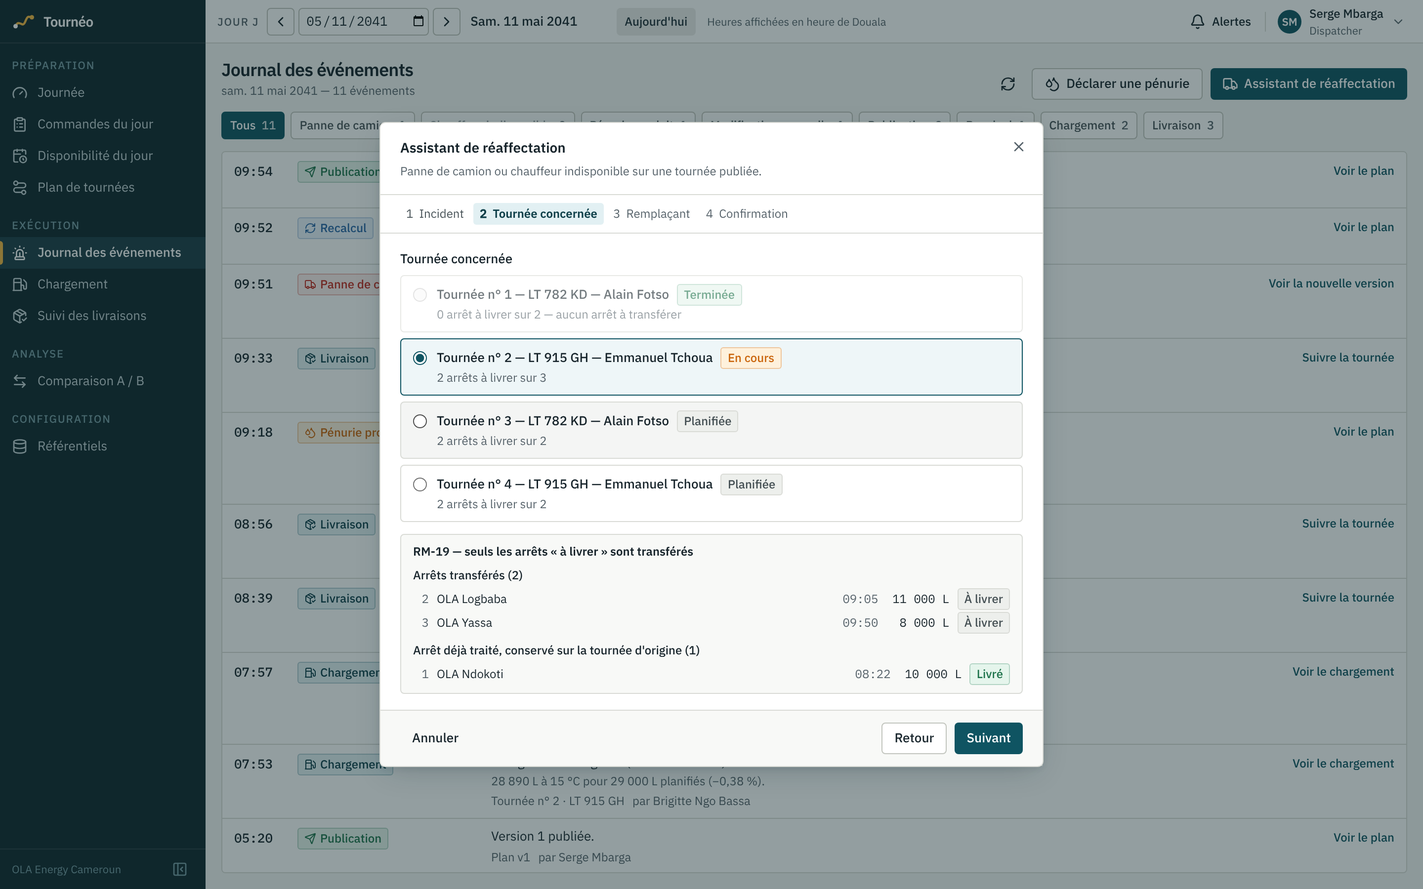
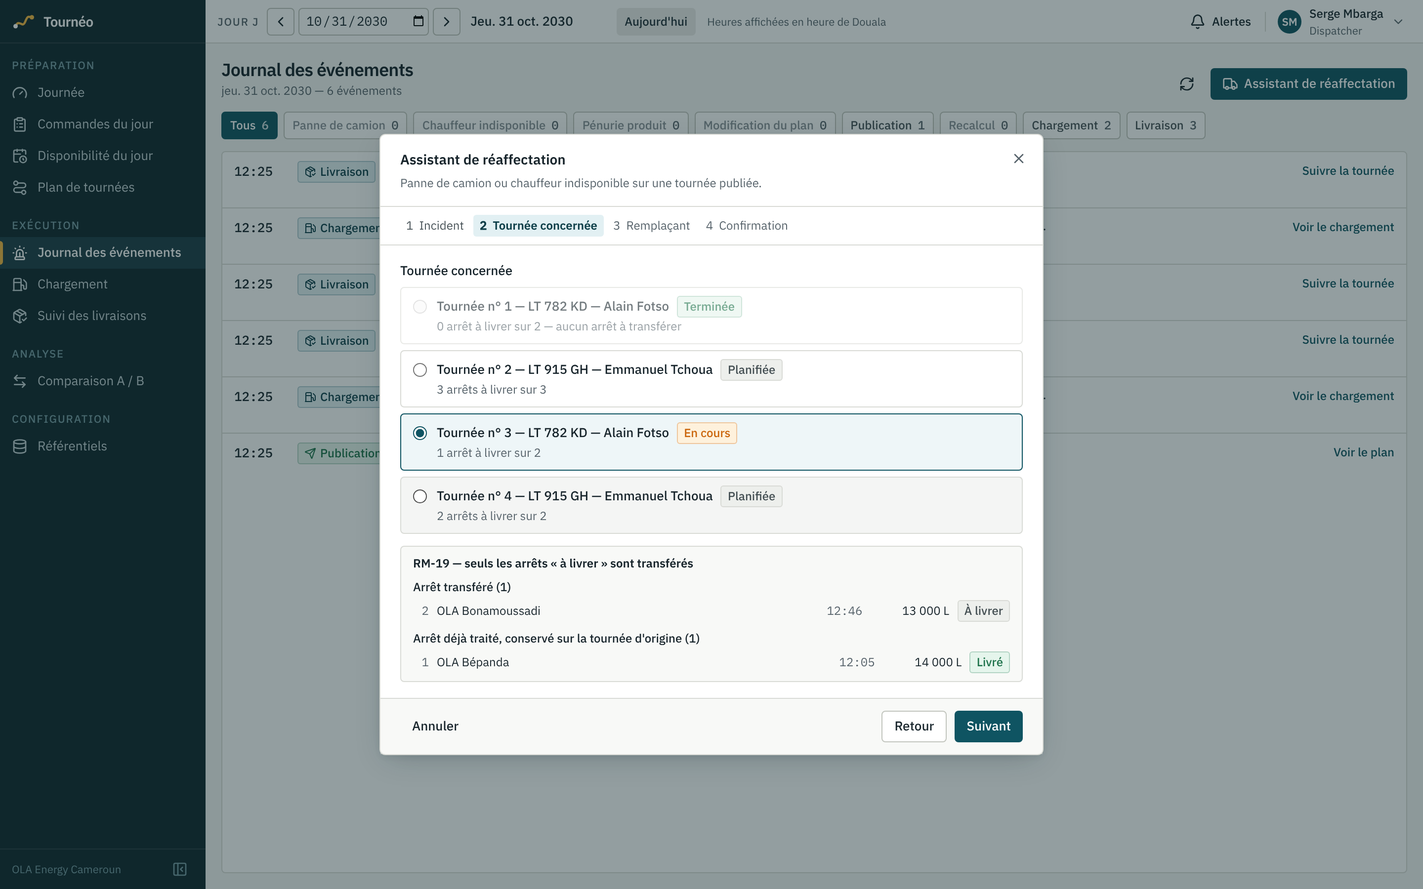
Journal des événements contre la vraie API : traitement des pénuries, parcours Playwright, captures
Parcours e2e (vraie API) : panne de camion par l'assistant → nouvelle version publiée, tournée de
remplacement au chargement ; pénurie déclarée puis traitée par le dispatcher. Captures du journal
refaites sur données réelles ; questions du lot mises à jour.

Claude-Session: https://claude.ai/code/session_01WbKnrdsNcZHw9DjmF11Z3t

diff --git a/frontend/e2e/l13-evenements.e2e.ts b/frontend/e2e/l13-evenements.e2e.ts
@@ -1,0 +1,275 @@
+/**
+ * Lot L13, écran 6 — bout en bout contre la VRAIE API (aucune doublure, routes du lot L10) :
+ *   1. `dispatcher` : panne de camion traitée par l'assistant sur une tournée en cours du plan publié
+ *      (RM-19) → nouvelle version publiée, événement au journal, tournée de remplacement dans l'écran
+ *      Chargement ;
+ *   2. pénurie produit déclarée par l'écran en `admin` (le rôle `supply`, seul autre rôle autorisé par
+ *      l'API, ne voit pas encore l'écran Journal dans `lib/auth/roles.ts`), puis traitée par l'écran en
+ *      `dispatcher` → alerte résolue, journal à jour.
+ * Prérequis : `./scripts/dev_setup.sh`, l'API sur :8000 et **un worker Celery** (calcul du plan).
+ * Connexions limitées à 10/min par adresse : une connexion par rôle, contextes réutilisés.
+ *
+ * Captures d'écran (`docs/captures/l13-0[89]-*.png`, `l13-1[0-3]-*.png`) :
+ * `L13_CAPTURES=1 pnpm e2e l13-evenements`.
+ */
+import { expect, test, type Browser, type BrowserContext, type Page } from "@playwright/test";
+
+import { ACCOUNTS, call, seedPublishedPlan, type Seed, type SeedTrip } from "./l13-seed";
+
+const CAPTURES = !!process.env.L13_CAPTURES;
+const OUT = "docs/captures";
+const ADMIN = { email: "admin@honowa.tech", password: "admin-dev-only" };
+
+let seed: Seed;
+let day: string;
+/** Tournée en panne : la seconde du camion, en cours, premier arrêt livré. */
+let broken: SeedTrip;
+/** Première tournée du même camion, terminée avant la panne. */
+let earlier: SeedTrip;
+let dispatcher: { context: BrowserContext; page: Page };
+
+test.describe.configure({ mode: "serial" });
+
+const utcAt = (utc: string, plusMinutes: number) =>
+  new Date(Date.parse(utc) + plusMinutes * 60_000).toISOString();
+/** Heure locale de Douala (UTC+1), sans séparateur (saisie rapide « 1015 »). */
+function localDigits(utc: string, plusMinutes = 0): string {
+  const date = new Date(Date.parse(utc) + (60 + plusMinutes) * 60_000);
+  return `${String(date.getUTCHours()).padStart(2, "0")}${String(date.getUTCMinutes()).padStart(2, "0")}`;
+}
+const gasoil = (trip: SeedTrip) =>
+  trip.loads.filter((load) => load.product_code === "GASOIL").reduce((sum, load) => sum + load.planned_l, 0);
+
+/** Fait avancer une tournée par l'API : chargement, départ, puis livraison des `delivered` premiers arrêts. */
+async function run(trip: SeedTrip, delivered: number, complete: boolean): Promise<void> {
+  const token = seed.adminToken;
+  const status = (body: Record<string, unknown>) =>
+    call(`/trips/${trip.id}/status`, { method: "PUT", token, body });
+  await status({ status: "at_depot" });
+  await call(`/trips/${trip.id}/loading`, {
+    method: "POST",
+    token,
+    body: {
+      arrived_at: utcAt(trip.planned_depart_at, -125),
+      started_at: utcAt(trip.planned_depart_at, -100),
+      finished_at: utcAt(trip.planned_depart_at, -20),
+      depot_ticket_no: `BL-22${30 + trip.seq}`,
+      lines: trip.loads.map((load) => ({
+        compartment_id: load.compartment_id,
+        product_id: load.product_id,
+        observed_l: load.planned_l,
+        observed_temp_c: 19,
+      })),
+    },
+  });
+  await status({ status: "loaded" });
+  await status({ status: "in_progress", actual_depart_at: utcAt(trip.planned_depart_at, 3) });
+  for (const stop of trip.stops.slice(0, delivered)) {
+    await call(`/stops/${stop.id}/delivery`, {
+      method: "PUT",
+      token,
+      body: {
+        actual_arrival_at: utcAt(stop.planned_arrival_at, 6),
+        actual_departure_at: utcAt(stop.planned_arrival_at, 40),
+        deliveries: stop.deliveries.map((line) => ({ order_id: line.order_id, actual_l: line.planned_l })),
+      },
+    });
+  }
+  if (complete) {
+    const last = trip.stops[trip.stops.length - 1];
+    await status({ status: "completed", actual_return_at: utcAt(last.planned_arrival_at, 70) });
+  }
+}
+
+test.beforeAll(async () => {
+  test.setTimeout(300_000);
+  seed = await seedPublishedPlan();
+  day = seed.day;
+  // Un camion qui fait deux tournées : la première est terminée, la seconde tombe en panne en route.
+  const byTruck = new Map<string, SeedTrip[]>();
+  for (const trip of seed.trips) byTruck.set(trip.truck_id, [...(byTruck.get(trip.truck_id) ?? []), trip]);
+  const pair = [...byTruck.values()].find((trips) => trips.length === 2 && trips[1].stops.length >= 2);
+  expect(pair, "le plan d'essai contient un camion à deux tournées").toBeTruthy();
+  [earlier, broken] = pair as [SeedTrip, SeedTrip];
+  await run(earlier, earlier.stops.length, true);
+  await run(broken, 1, false);
+});
+
+test.afterAll(async () => {
+  await dispatcher?.context.close();
+});
+
+async function open(browser: Browser, account: { email: string; password: string }, path: string) {
+  const context = await browser.newContext({
+    baseURL: "http://localhost:5173",
+    locale: "fr-FR",
+    timezoneId: "Africa/Douala",
+    viewport: CAPTURES ? { width: 1440, height: 900 } : { width: 1280, height: 800 },
+    deviceScaleFactor: CAPTURES ? 2 : 1,
+  });
+  const page = await context.newPage();
+  await page.goto("/connexion");
+  await page.getByLabel("Adresse e-mail").fill(account.email);
+  await page.getByLabel("Mot de passe", { exact: true }).fill(account.password);
+  await page.getByRole("button", { name: "Se connecter" }).click();
+  await expect(page.getByTestId("user-menu")).toBeVisible();
+  await page.goto(path);
+  return { context, page };
+}
+
+async function shot(page: Page, name: string) {
+  if (!CAPTURES) return;
+  await page.waitForTimeout(400);
+  const hide = await page.addStyleTag({
+    content: "[data-sonner-toaster] { visibility: hidden !important; }",
+  });
+  await page.screenshot({ path: `${OUT}/${name}.png`, animations: "disabled" });
+  await hide.evaluate((node) => (node as Element).remove());
+}
+
+test("dispatcher : panne de camion → assistant → nouvelle version publiée, journal, chargement", async ({
+  browser,
+}) => {
+  dispatcher = await open(browser, ACCOUNTS.dispatcher, `/journal?day=${day}`);
+  const { page } = dispatcher;
+  await expect(page.getByTestId("mocks-badge")).toHaveCount(0);
+  await expect(page.getByTestId("event-row").first()).toBeVisible();
+  // Le dispatcher réaffecte et traite ; la déclaration d'une pénurie revient à Supply.
+  await expect(page.getByRole("button", { name: "Déclarer une pénurie" })).toHaveCount(0);
+
+  await page.getByRole("button", { name: "Assistant de réaffectation" }).click();
+  const dialog = page.getByRole("dialog", { name: "Assistant de réaffectation" });
+  const next = dialog.getByRole("button", { name: "Suivant" });
+
+  // Étape 1 : panne de camion, constatée peu après la première livraison.
+  await expect(dialog.getByRole("radio", { name: /Camion en panne/ })).toBeChecked();
+  await dialog
+    .getByRole("textbox", { name: /Heure de l'incident/ })
+    .fill(localDigits(broken.stops[0].planned_arrival_at, 50));
+  await next.click();
+
+  // Étape 2 : la tournée en cours ; RM-19 — l'arrêt livré reste sur la tournée d'origine.
+  await dialog.getByRole("radio", { name: new RegExp(`Tournée n° ${broken.seq} — `) }).click();
+  const rm19 = dialog.getByRole("region", { name: /RM-19/ });
+  await expect(
+    rm19.getByText(new RegExp(`Arrêts? transférés? \\(${broken.stops.length - 1}\\)`)),
+  ).toBeVisible();
+  await expect(rm19.getByText(/conservé sur la tournée d'origine \(1\)/)).toBeVisible();
+  await expect(rm19.getByText(broken.stops[0].station_name)).toBeVisible();
+  await shot(page, "l13-09-journal-assistant-tournee-rm19");
+  await next.click();
+
+  // Étape 3 : le camion en panne n'est pas proposé ; on prend le premier camion éligible.
+  const trucks = dialog.getByRole("group", { name: "Camion de remplacement" }).getByRole("radio");
+  await expect(trucks.first()).toBeVisible();
+  await expect(dialog.getByRole("radio", { name: new RegExp(`^${broken.truck_plate}`) })).toHaveCount(0);
+  const eligible = dialog
+    .getByRole("group", { name: "Camion de remplacement" })
+    .locator("input[type=radio]:enabled");
+  await expect(eligible.first()).toBeVisible();
+  await eligible.first().check();
+  const plate = (
+    (await eligible.first().locator("xpath=ancestor::label").innerText()).split("\n")[0] ?? ""
+  ).trim();
+  await expect(dialog.getByRole("group", { name: /Chauffeur de la tournée de remplacement/ })).toBeVisible();
+  await shot(page, "l13-10-journal-assistant-remplacant");
+  await expect(next).toBeEnabled();
+  await next.click();
+
+  // Étape 4 : récapitulatif, motif, confirmation.
+  await expect(dialog.getByRole("region", { name: "Récapitulatif" })).toContainText(plate);
+  await dialog.getByRole("textbox", { name: /Motif/ }).fill("Fuite hydraulique sur l'axe Ndokoti");
+  await dialog.getByRole("button", { name: "Confirmer la réaffectation" }).click();
+
+  await expect(dialog.getByText("Réaffectation enregistrée")).toBeVisible();
+  await expect(dialog.getByText(new RegExp(`Panne du camion ${broken.truck_plate}`))).toBeVisible();
+  await expect(dialog.getByTestId("plan-result")).toContainText("Version 2 du plan publiée.");
+  await expect(
+    dialog.getByText(/arrêts? transférés?, 1 conservé sur la tournée d'origine \(RM-19\)/),
+  ).toBeVisible();
+  await expect(dialog.getByRole("link", { name: "Ouvrir le plan (v2)" })).toBeVisible();
+  await shot(page, "l13-12-journal-reaffectation-resultat");
+
+  // La tournée de remplacement repart du dépôt : elle est dans l'écran Chargement, sur le nouveau camion.
+  await dialog.getByRole("link", { name: "Ouvrir son chargement" }).click();
+  await expect(page).toHaveURL(/\/chargement\?trip=/);
+  await expect(page.getByTestId("trip-panel")).toContainText(plate);
+
+  // Le journal porte l'événement, avec son motif.
+  await page.goto(`/journal?day=${day}`);
+  const row = page.getByTestId("event-row").filter({ hasText: `Panne du camion ${broken.truck_plate}` });
+  await expect(row).toContainText("Motif : Fuite hydraulique sur l'axe Ndokoti");
+  await expect(row).toContainText("Plan v2");
+  await expect(row.getByRole("link", { name: "Voir le plan" })).toBeVisible();
+});
+
+test("pénurie produit : déclarée par l'écran (admin), traitée par le dispatcher → résolue", async ({
+  browser,
+}) => {
+  // Stock total du jour = déjà chargé + 4 000 L : les tournées de gasoil non chargées ne sont plus couvertes.
+  const loaded = gasoil(earlier) + gasoil(broken);
+  const stock = loaded + 4000;
+
+  const admin = await open(browser, ADMIN, `/journal?day=${day}`);
+  await admin.page.getByRole("button", { name: "Déclarer une pénurie" }).click();
+  const form = admin.page.getByRole("dialog", { name: "Déclarer une pénurie produit" });
+  await form.getByRole("combobox", { name: "Dépôt" }).selectOption({ label: "SCDP-DLA — SCDP Douala" });
+  await form.getByRole("combobox", { name: "Produit" }).selectOption({ label: "Gasoil" });
+  const field = form.getByRole("textbox", { name: "Nouveau stock disponible" });
+
+  // Refus expliqué : le stock total ne peut pas être inférieur à ce qui est déjà chargé.
+  await field.fill(String(loaded - 1000));
+  await form.getByRole("button", { name: "Déclarer" }).click();
+  await expect(form.getByRole("alert")).toContainText("Déclaration refusée");
+  await expect(form.getByRole("alert")).toContainText("Le stock saisi est le stock total du jour");
+
+  await field.fill(String(stock));
+  await form.getByRole("button", { name: "Déclarer" }).click();
+  const overview = form.getByTestId("shortage-overview");
+  await expect(overview).toContainText("GASOIL au dépôt SCDP-DLA");
+  await expect(overview).toContainText("À traiter");
+  await form.getByRole("button", { name: "Fermer" }).last().click();
+  await expect(
+    admin.page.getByTestId("event-row").filter({ hasText: "Stock de GASOIL au dépôt SCDP-DLA" }),
+  ).toContainText("À traiter");
+  await admin.context.close();
+
+  // Le dispatcher traite l'alerte depuis le journal.
+  const { page } = dispatcher;
+  await page.goto(`/journal?day=${day}`);
+  const alertRow = page.getByTestId("event-row").filter({ hasText: "Stock de GASOIL au dépôt SCDP-DLA" });
+  await expect(alertRow).toContainText("À traiter");
+  await shot(page, "l13-08-journal-evenements");
+  await alertRow.getByRole("button", { name: "Traiter la pénurie" }).click();
+  const impact = page.getByRole("dialog", { name: "Pénurie produit — tournées impactées" });
+  const trips = impact.getByTestId("impacted-trip");
+  await expect(trips.first()).toBeVisible();
+  const count = await trips.count();
+  expect(count).toBeGreaterThanOrEqual(1);
+
+  // Les options viennent du serveur ; ici les commandes de gasoil de chaque tournée impactée sont reportées.
+  for (let index = 0; index < count; index += 1) {
+    const decision = trips.nth(index).getByRole("combobox", { name: /Décision pour la tournée/ });
+    await expect(decision.getByRole("option", { name: "Changer de dépôt" })).toBeAttached();
+    await decision.selectOption("postpone");
+  }
+  await shot(page, "l13-11-journal-penurie-tournees-impactees");
+  await impact.getByRole("button", { name: "Appliquer les décisions" }).click();
+
+  await expect(impact.getByText("Décisions appliquées")).toBeVisible();
+  await expect(impact.getByTestId("shortage-overview")).toContainText("Résolue");
+  await expect(impact.getByText(/La pénurie est résolue/)).toBeVisible();
+  await expect(impact.getByTestId("plan-result").first()).toContainText(/Version \d+ du plan/);
+  await shot(page, "l13-13-journal-penurie-traitee");
+  await impact.getByRole("button", { name: "Fermer" }).last().click();
+
+  // Journal à jour : alerte résolue, décision journalisée.
+  await expect(alertRow).toContainText("Résolue");
+  await expect(alertRow.getByRole("button", { name: "Traiter la pénurie" })).toHaveCount(0);
+  await expect(
+    page
+      .getByTestId("event-row")
+      .filter({ hasText: /^.*Pénurie de GASOIL au dépôt SCDP-DLA/ })
+      .first(),
+  ).toBeVisible();
+});

diff --git a/frontend/src/features/events/ReassignDialog.tsx b/frontend/src/features/events/ReassignDialog.tsx
@@ -22,7 +22,7 @@ import {
   DialogHeader,
   DialogTitle,
 } from "@/components/ui/dialog";
-import { TimeInput } from "@/components/forms";
+import { normalizeTime, TimeInput } from "@/components/forms";
 import { Input } from "@/components/ui/input";
 import { Label } from "@/components/ui/label";
 import { fr } from "@/i18n/fr";
@@ -98,7 +98,7 @@ function StopList({ title, stops }: { title: string; stops: PlanStopOut[] }) {
             <span className="num w-4 text-right text-muted-foreground">{stop.seq}</span>
             <span className="min-w-0 flex-1 truncate">{stop.station_name ?? stop.station_code ?? EMPTY}</span>
             <span className="num text-muted-foreground">{formatLocalTime(stop.planned_arrival_at)}</span>
-            <span className="num w-16 text-right">{formatLiters(stop.planned_l)}</span>
+            <span className="w-20 text-right tabular-nums">{formatLiters(stop.planned_l)}</span>
             <StatusBadge kind="stop" value={stop.status} />
           </li>
         ))}
@@ -206,10 +206,11 @@ export function ReassignDialog({
   const [reason, setReason] = useState("");
   /** Heure locale de l'incident (`HH:mm`) ; vide : maintenant. */
   const [time, setTime] = useState("");
-  const timeValid = time === "" || /^([01]\d|2[0-3]):[0-5]\d$/.test(time);
+  const localTime = normalizeTime(time);
+  const timeValid = localTime === "" || /^([01]\d|2[0-3]):[0-5]\d$/.test(localTime);
   const occurredAt =
-    time !== "" && timeValid
-      ? new Date(Date.parse(dayBoundsUtc(day).from) + hmToSeconds(time) * 1000).toISOString()
+    localTime !== "" && timeValid
+      ? new Date(Date.parse(dayBoundsUtc(day).from) + hmToSeconds(localTime) * 1000).toISOString()
       : null;
   const [done, setDone] = useState<EventResultOut | null>(null);
 

diff --git a/frontend/src/features/events/ImpactDialog.tsx b/frontend/src/features/events/ImpactDialog.tsx
@@ -48,7 +48,7 @@ function Figure({ label, value, strong }: { label: string; value: number; strong
   return (
     <div className="flex flex-col">
       <dt className="text-[0.6875rem] uppercase tracking-wide text-muted-foreground">{label}</dt>
-      <dd className={strong ? "num text-sm font-semibold text-warning" : "num text-sm"}>
+      <dd className={strong ? "text-sm font-semibold tabular-nums text-warning" : "text-sm tabular-nums"}>
         {formatLiters(value)}
       </dd>
     </div>
@@ -103,10 +103,9 @@ function TripCard({
         <StatusBadge kind="trip" value={trip.status} />
         {trip.driver_name && <span className="text-xs text-muted-foreground">{trip.driver_name}</span>}
         <span className="ml-auto text-xs">
-          {t.planned} <span className="num">{formatLiters(trip.planned_l)}</span> · {t.covered}{" "}
-          <span className="num">{formatLiters(trip.covered_l)}</span> ·{" "}
+          {t.planned} {formatLiters(trip.planned_l)} · {t.covered} {formatLiters(trip.covered_l)} ·{" "}
           <span className="font-medium text-warning">
-            {t.shortfall} <span className="num">{formatLiters(trip.shortfall_l)}</span>
+            {t.shortfall} {formatLiters(trip.shortfall_l)}
           </span>
         </span>
       </div>

diff --git a/frontend/src/features/events/events.test.tsx b/frontend/src/features/events/events.test.tsx
@@ -252,10 +252,12 @@ describe("Journal des événements — assistant de réaffectation", () => {
     await waitFor(() => expect(screen.getAllByTestId("event-row")).toHaveLength(9));
   });
 
-  it("chauffeur obligatoire quand `driver_required` ; chauffeur et motif transmis", async () => {
+  it("chauffeur obligatoire quand `driver_required` ; chauffeur, heure et motif transmis", async () => {
     loginAs("dispatcher");
     const { user } = renderApp(ROUTE);
     const { dialog, next } = await openAssistant(user);
+    // Heure de l'incident : saisie tolérante (« 910 » → 09:10, heure de Douala).
+    await user.type(within(dialog).getByRole("textbox", { name: /Heure de l'incident/ }), "910");
     await next();
     await user.click(await within(dialog).findByRole("radio", { name: /Tournée n° 2/ }));
     await next();
@@ -278,6 +280,7 @@ describe("Journal des événements — assistant de réaffectation", () => {
         trip_id: SAMPLE_TRIP_IDS[1],
         replacement_truck_id: SAMPLE_TRUCK_IDS.driverRequired,
         replacement_driver_id: SAMPLE_DRIVER_IDS.jean,
+        occurred_at: "2027-01-12T08:10:00.000Z",
         reason: "Crevaison à Ndokoti",
       },
     });

diff --git a/docs/questions/l13-ecrans.md b/docs/questions/l13-ecrans.md
@@ -24,21 +24,20 @@ Zones d'ombre rencontrées, valeur par défaut adoptée en attendant la réponse
 | L13-11 | Kilomètres réels à la clôture. | Saisis en kilomètres (une décimale possible), envoyés en mètres ; facultatifs comme côté API. Confirmation avant clôture car elle n'est pas réversible (L6-12). |
 | L13-12 | Source des données : aucune route ne liste les arrêts d'une tournée hors du plan complet. | `GET /loadings?day=` pour les tournées, `GET /plans/{plan_id}` (un appel par plan publié du jour) pour les arrêts. |
 
-## Écran 6 — Journal des événements (routes du lot L10 non livrées à la date du rendu)
+## Écran 6 — Journal des événements (aligné sur les routes réelles du lot L10)
 
-Toutes les formes supposées sont isolées dans `frontend/src/features/events/api.ts` (fonctions `normalize*` tolérantes).
+Les types viennent de `api.gen.ts` (`EventOut`, `EventResultOut`, `ReplacementOptionsOut`, `ShortageOut`, `ResolveOut`) ;
+tous les appels sont dans `frontend/src/features/events/api.ts`.
 
 | # | Question | Choix fait |
 |---|---|---|
-| L13-13 | Forme de `GET /events?day=`. | `Page` (ou liste) d'événements : colonnes du modèle (`id, day, plan_id, trip_id, type, payload, occurred_at, actor_id`) plus libellés supposés `actor_name`, `trip_seq`, `truck_plate` (acceptés aussi dans `payload`). Sans eux : « Système », « Tournée ». |
-| L13-14 | Route des options de remplacement (non décrite par la spec §9). | Supposée `GET /events/replacement-options?trip_id=&kind=truck\|driver` → `{trucks: [{id, plate, size, total_capacity_l, carrier_name, suitable, reason}], drivers: [{id, full_name, phone, suitable, reason}]}`. |
-| L13-15 | Réponse des `POST /events/truck-breakdown` et `/driver-unavailable`. | Supposée `{event, plan: {id, version}, transferred_stop_count}` ; un `PlanOut` direct ou `{plan_id, plan_version}` sont aussi compris. L'écran propose alors d'ouvrir la nouvelle version du plan. |
-| L13-16 | Réponse de `POST /events/product-shortage`. | Supposée `{event, available_l, impacted_trips: [{trip_id, plan_id, trip_seq, truck_plate, driver_name, planned_l, shortfall_l}]}`. |
-| L13-17 | F6.3 « le dispatcher choisit : réduire, reporter, changer de dépôt » : la spec §9 ne prévoit aucune route de résolution. | Pas de route inventée : pour chaque tournée impactée, trois liens — « Réduire » et « Changer de dépôt » vers le plan (`/plan?plan=&trip=`), « Reporter » vers les commandes. Lever l'alerte = redéclarer un stock suffisant par la même route. |
-| L13-18 | F6.3 attribue la mise à jour du stock à Supply, mais `supply` ne voit pas l'écran Journal et `events.write` est réservé au dispatcher. | Déclaration ouverte au dispatcher (et admin) seulement. À trancher : ouvrir l'écran (ou cette action) à Supply, ou s'appuyer sur `PUT /availability/depot-stocks`. |
-| L13-19 | Panne de camion : chauffeur de remplacement. | Facultatif ; le chauffeur actuel est conservé par défaut (`replacement_driver_id` omis). |
-| L13-20 | Tournées proposées dans l'assistant. | Celles des plans publiés du jour ayant au moins un arrêt `pending` (RM-19) ; le serveur reste juge du reste. |
-| L13-21 | Liens du journal vers les autres écrans. | `/suivi?trip=<id>`, `/chargement?trip=<id>` (lus par les écrans 7 et 8 de ce lot) et `/plan?plan=<id>` (à confirmer avec le lot Plan). |
+| L13-13 | F6.3 attribue la déclaration d'une pénurie à Supply (`POST /events/product-shortage` : `supply`, `admin`), mais `supply` ne voit pas l'écran Journal (`SCREEN_ROLES.events` du socle). | Le bouton « Déclarer une pénurie » n'apparaît que pour `supply` et `admin` ; tant que `roles.ts` n'ouvre pas l'écran à Supply, seule l'administration peut déclarer par l'écran. À trancher : ouvrir le Journal à Supply, ou placer la déclaration dans l'écran Disponibilité. |
+| L13-14 | Pénurie : `day` est facultatif côté API (défaut : aujourd'hui). | L'écran envoie toujours le jour J affiché. `new_available_l` est présenté comme le stock **total** du jour. |
+| L13-15 | Traitement d'une pénurie : « réduire » et « reporter » acceptent un détail par commande. | L'écran s'en tient aux valeurs par défaut du serveur (réduction proportionnelle, report de toutes les commandes du produit) ; « changer de dépôt » propose les `alternative_depots` en signalant s'ils suffisent. Faut-il une saisie par commande ? |
+| L13-16 | Champs facultatifs des réaffectations (`occurred_at`, `reason`, `publish`). | Motif et heure de l'incident proposés (les remplaçants sont évalués à cette heure) ; `publish` jamais envoyé (comportement par défaut du serveur : publication si aucune violation bloquante). |
+| L13-17 | Panne de camion : chauffeur de remplacement. | Chauffeur proposé par le serveur retenu par défaut ; obligatoire si `driver_required`. Les chauffeurs sont réévalués pour le camion choisi (`replacement_truck_id`). |
+| L13-18 | Nouvelle version restée en brouillon (violations bloquantes) après une réaffectation. | Signalée dans l'assistant avec ses violations et un lien vers le plan ; le lien « Ouvrir son chargement » de la tournée de remplacement n'est proposé qu'une fois la version publiée (un brouillon n'apparaît pas dans `GET /loadings`). |
+| L13-19 | Liens du journal vers les autres écrans. | `/suivi?trip=<id>`, `/chargement?trip=<id>` (lus par les écrans 7 et 8 de ce lot) et `/plan?plan=<id>` (à confirmer avec le lot Plan). |
 
 ## Constats sur l'API et le socle (non modifiés)
 
@@ -56,3 +55,11 @@ Toutes les formes supposées sont isolées dans `frontend/src/features/events/ap
   connexion. Attendu : n'effacer les jetons que sur un refus d'authentification, pas sur une erreur réseau.
 - **`GET /stops/{id}`** : pas de lecture unitaire d'un arrêt ; `StopOut` du plan ne porte pas `contact_email`
   (l'écran 7 lit `/stations` pour proposer les destinataires).
+- **`POST /events/{id}/resolve`, action `reduce` sans `deliveries`** : stock de 30 000 L dont 8 000 L déjà chargés ;
+  `GET /events/{id}/impact` annonce pour la tournée 3 `covered_l: 3000` avec `reduce` dans ses `options` (tournée 4 :
+  `covered_l: 0`). Attendu : réduction à 3 000 L. Constaté : 422 `nothing_left_to_load` (le calcul retranche le volume
+  de toutes les autres tournées impactées, y compris non couvertes). L'écran envoie donc les reports et changements de
+  dépôt avant les réductions ; réduire une seule tournée sans traiter les autres reste refusé.
+- **Horodatage du journal** : chargements, livraisons, publications et pénuries portent l'heure réelle du serveur,
+  alors qu'une panne porte l'`occurred_at` saisi ; sur un jour J autre qu'aujourd'hui, le fil mélange les deux.
+  `POST /events/product-shortage` n'accepte pas d'`occurred_at`.
